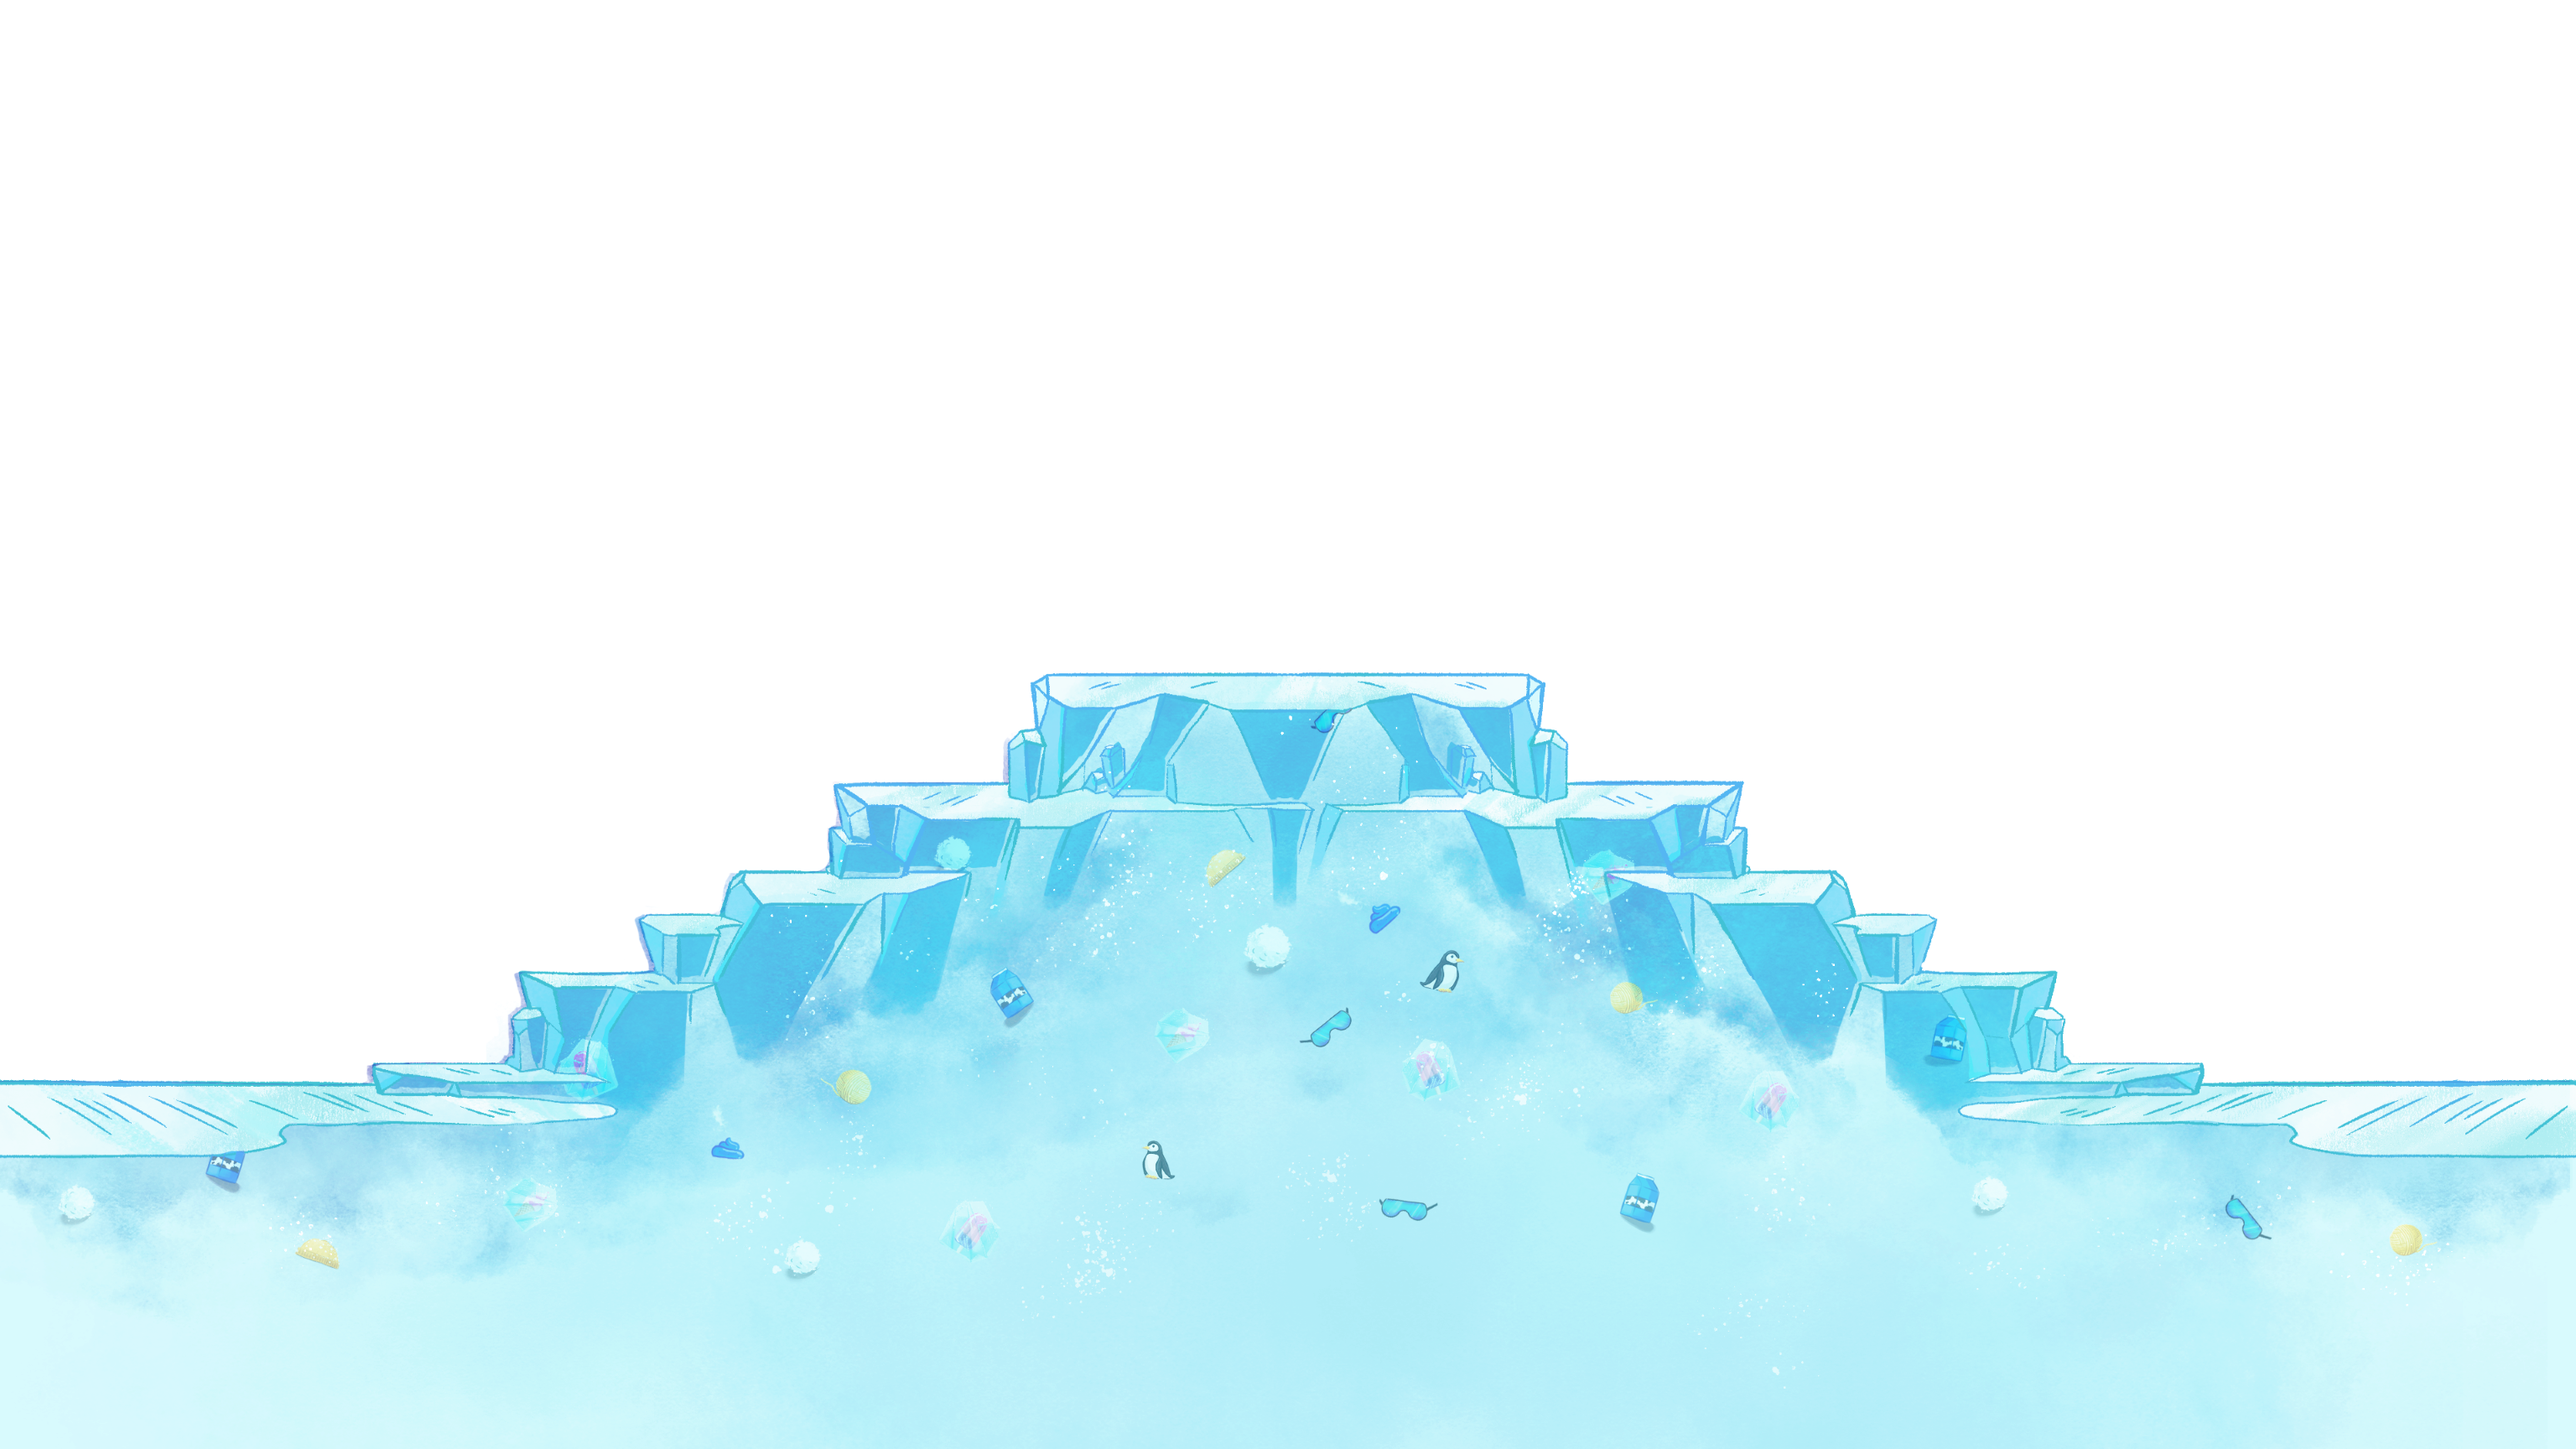
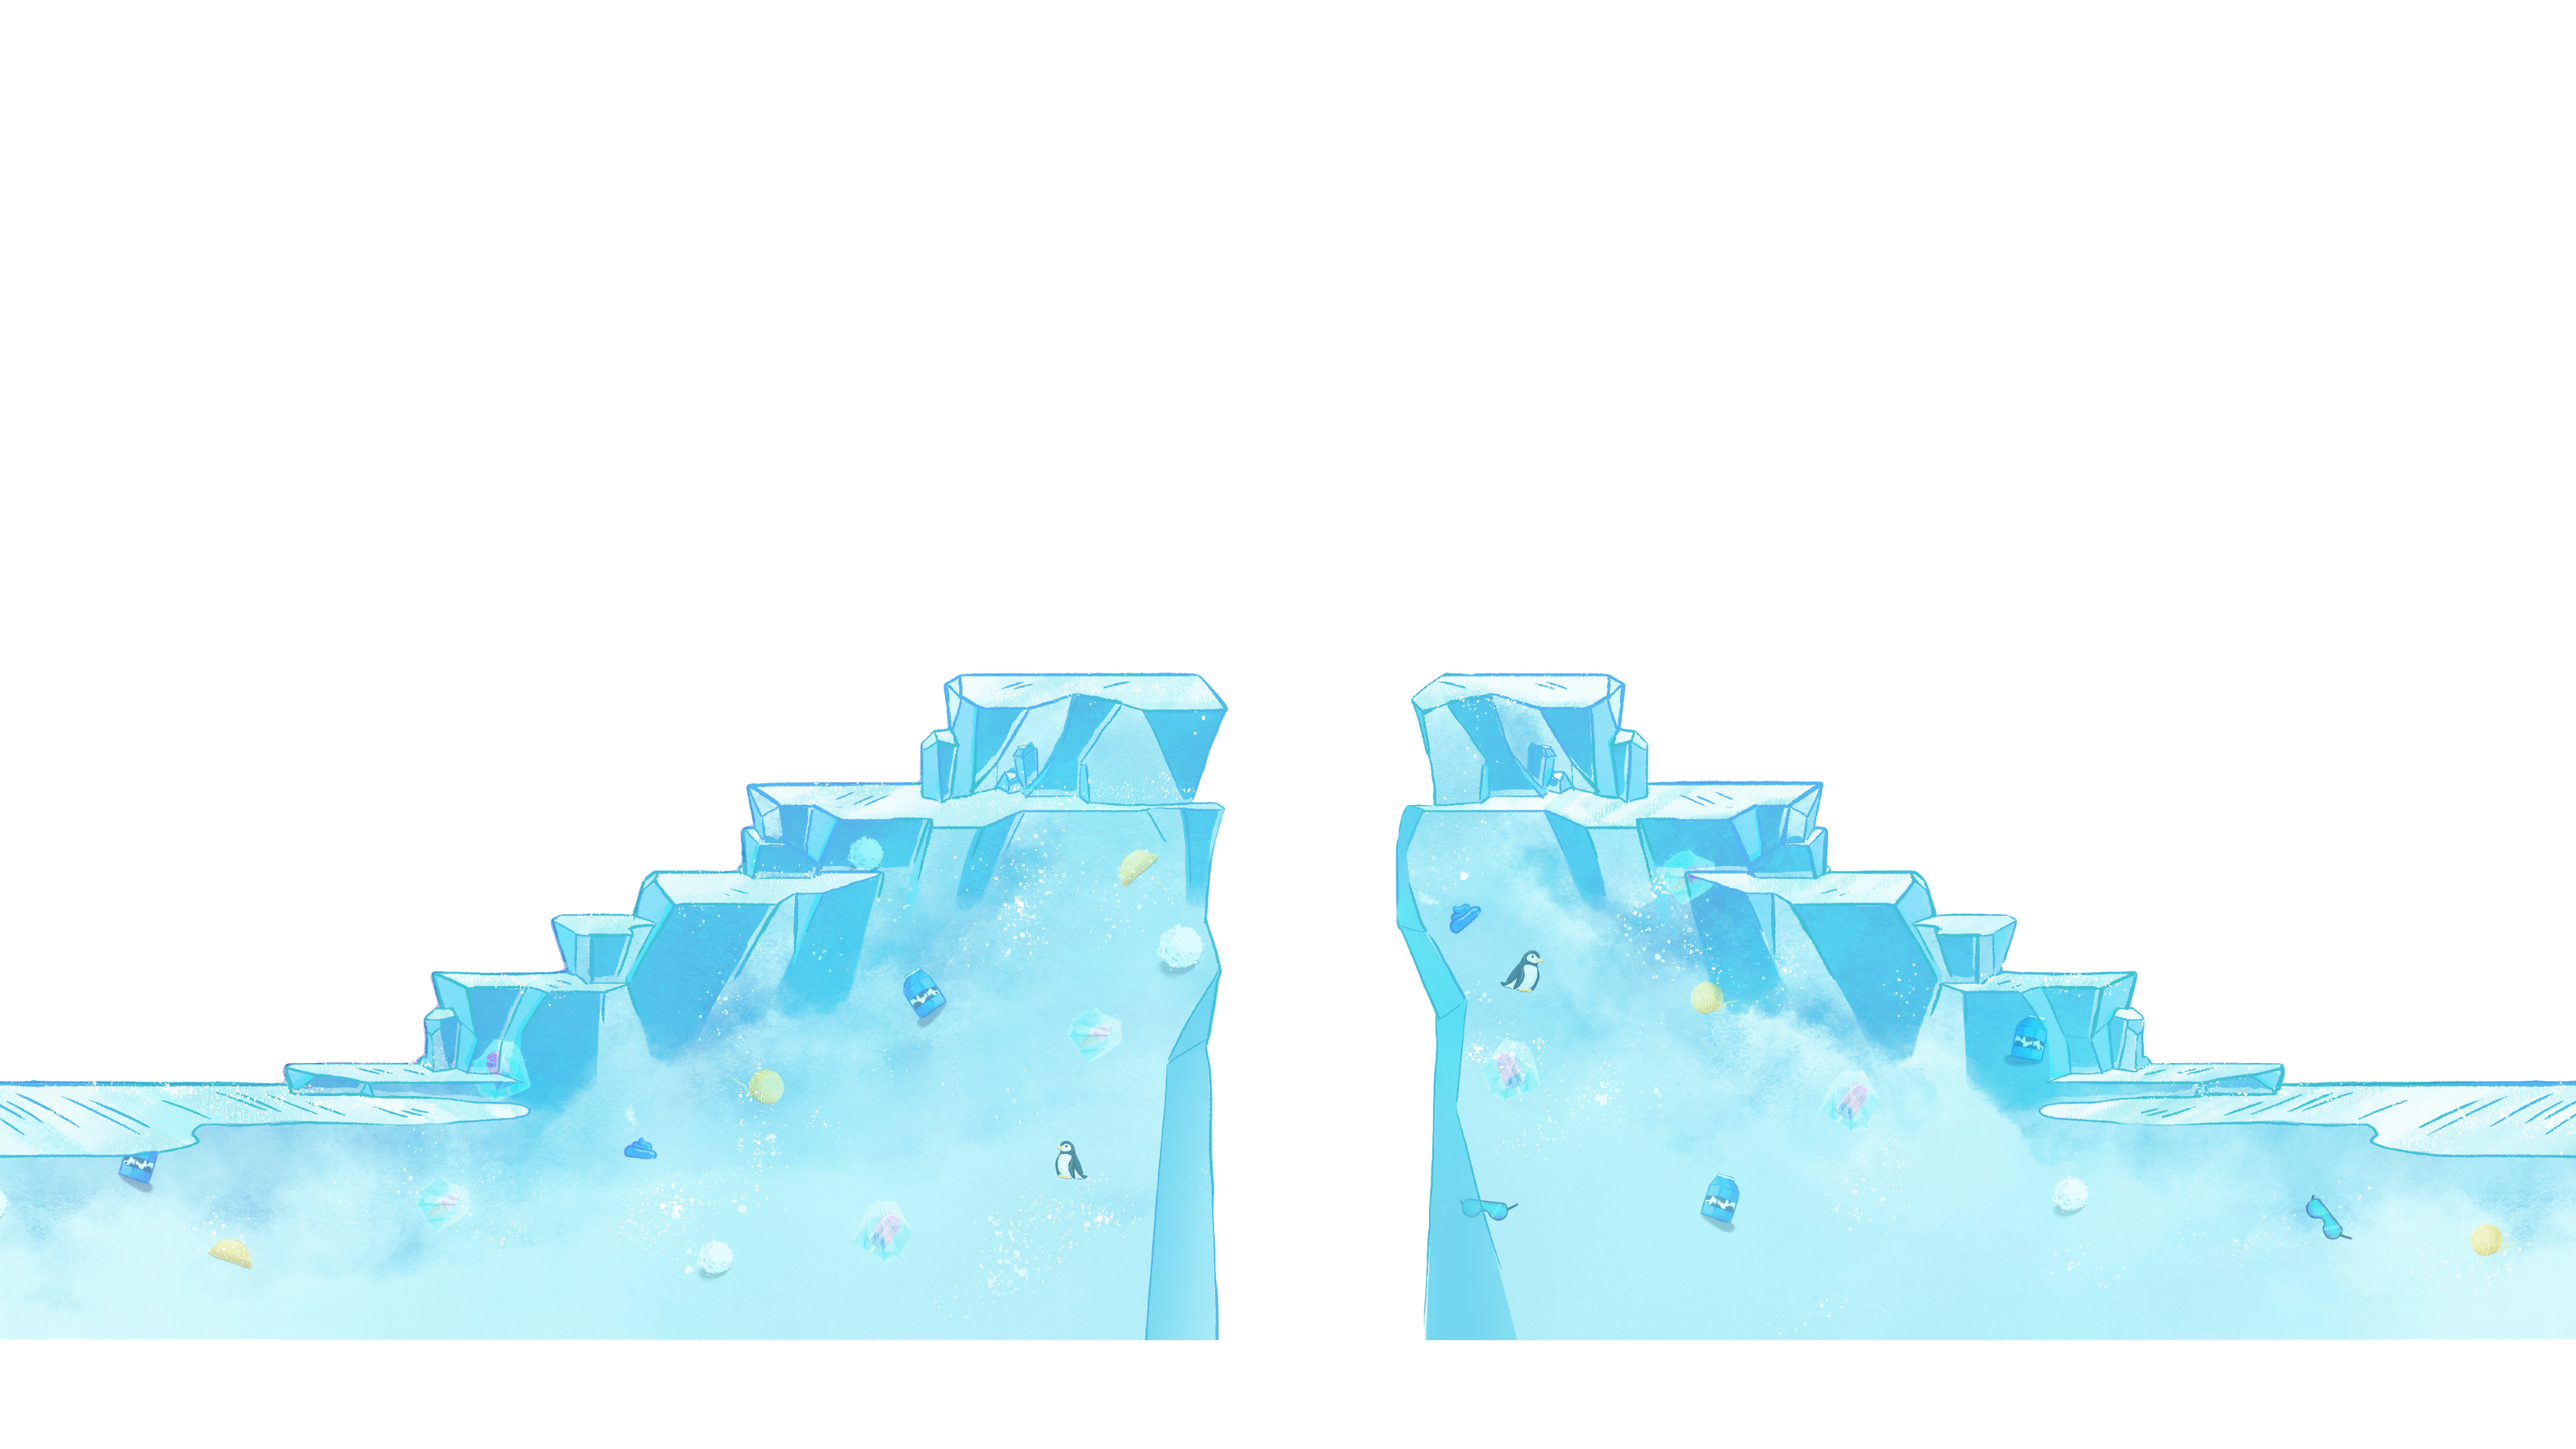
New maps with delimited center

Changed region(s): [[0.0, 0.4375, 1.0, 1.0], [0.625, 0.8125, 0.6875, 0.8438]]

diff --git a/Assets/_ProjectAssets/Scripts/BulletModule/MouseFollowComponent.cs b/Assets/_ProjectAssets/Scripts/BulletModule/MouseFollowComponent.cs
@@ -28,9 +28,7 @@ public class MouseFollowComponent : BulletComponent
     {
         if (Mathf.Abs(transform.localRotation.eulerAngles.z) > 0)
         {
-            Debug.Log($"from: " + transform.rotation.eulerAngles.z);
             transform.rotation = Quaternion.RotateTowards(transform.rotation, Quaternion.Euler(new Vector3(0, 0, 0)), rotationCorrectionSpeed * Time.deltaTime);
-            Debug.Log($"to: " + transform.rotation.eulerAngles.z);
         }
         
         //var clampedRot = Mathf.Clamp(transform.localRotation.z, -30, 30);

diff --git a/Assets/_ProjectAssets/Scripts/PlayerModule/Components/DamageDealingText.cs b/Assets/_ProjectAssets/Scripts/PlayerModule/Components/DamageDealingText.cs
@@ -22,7 +22,7 @@ public class DamageDealingText : MonoBehaviour
             {
                 LeanTween.scale(gameObject, Vector3.zero, .5f).setOnComplete(() =>
                 {
-                    Destroy(gameObject.transform.parent);
+                    Destroy(gameObject.transform.parent.gameObject);
                 });
             });
         });

diff --git a/Assets/_ProjectAssets/Scripts/BulletModule/SplitBulletComponent.cs b/Assets/_ProjectAssets/Scripts/BulletModule/SplitBulletComponent.cs
@@ -71,7 +71,7 @@ public class SplitBulletComponent : BulletComponent
 
     public IEnumerator AfterSplit()
     {
-        yield return new WaitForSeconds(0.3f);
+        yield return new WaitForSeconds(0.1f);
         float deviation = 10;
         for (int i = 0; i < splitNumber; i++)
         {
